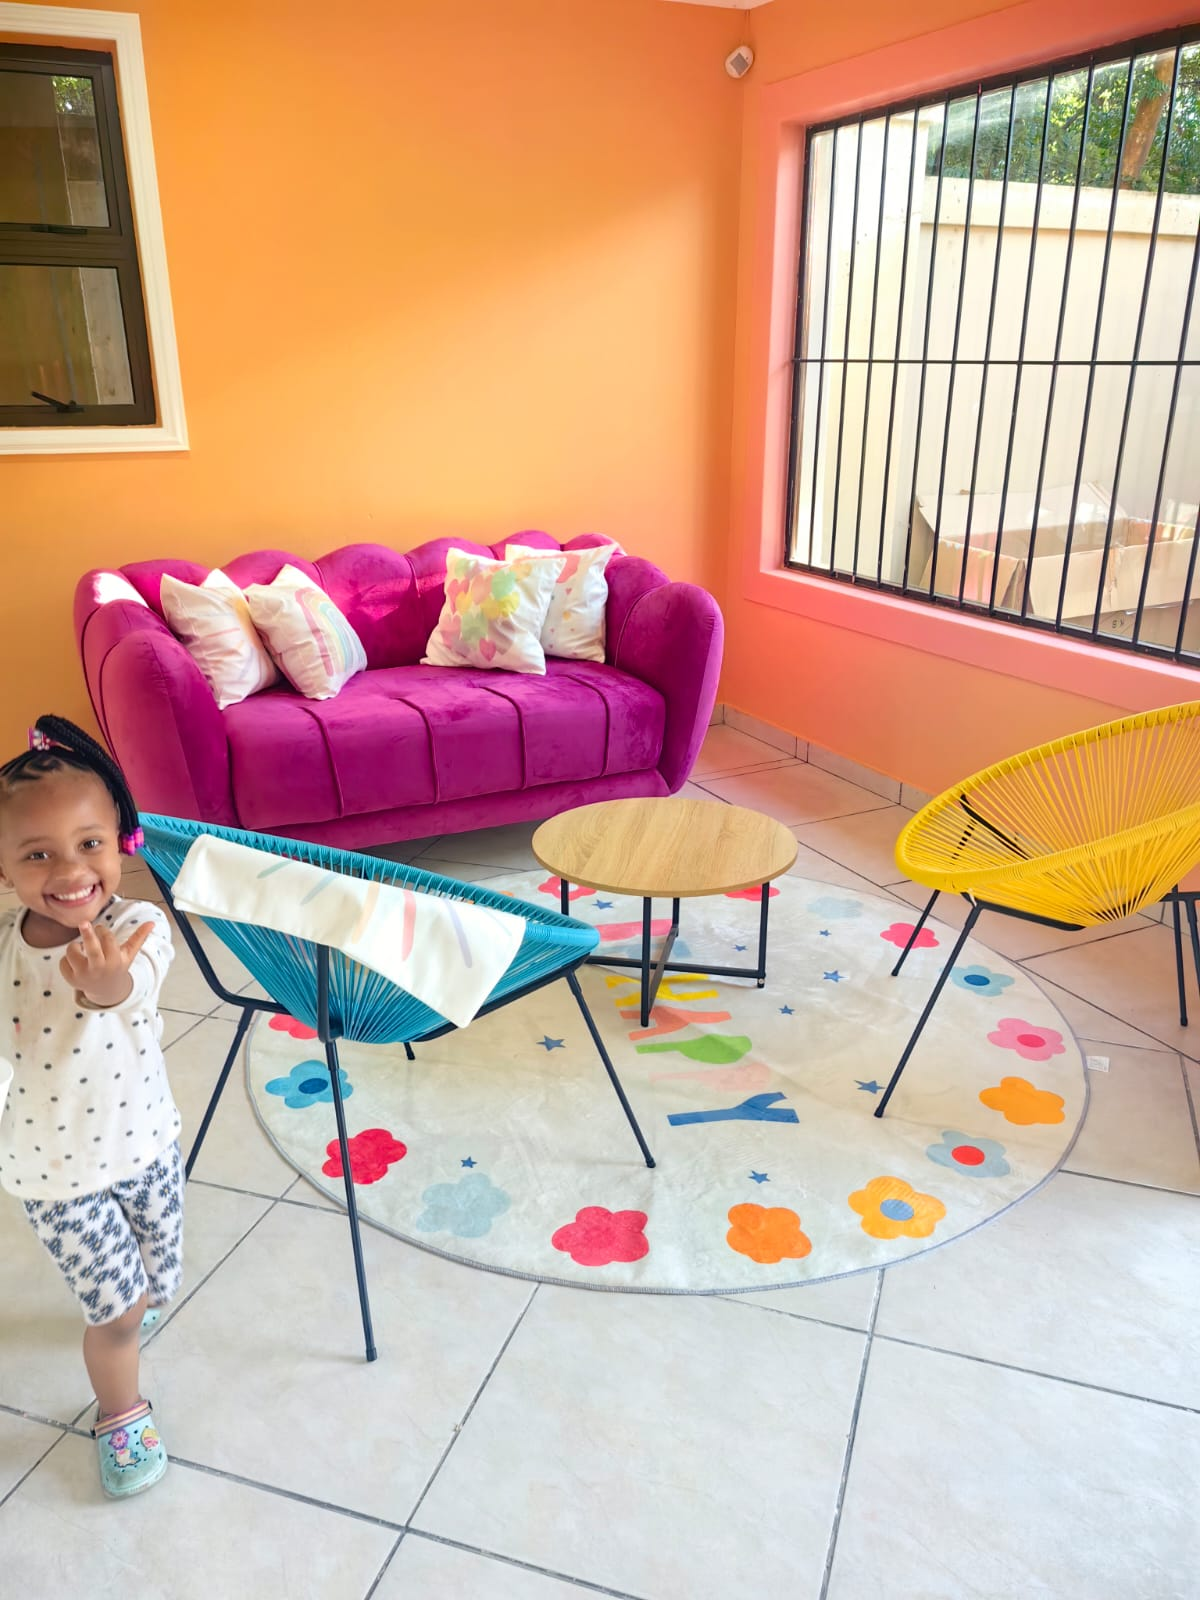
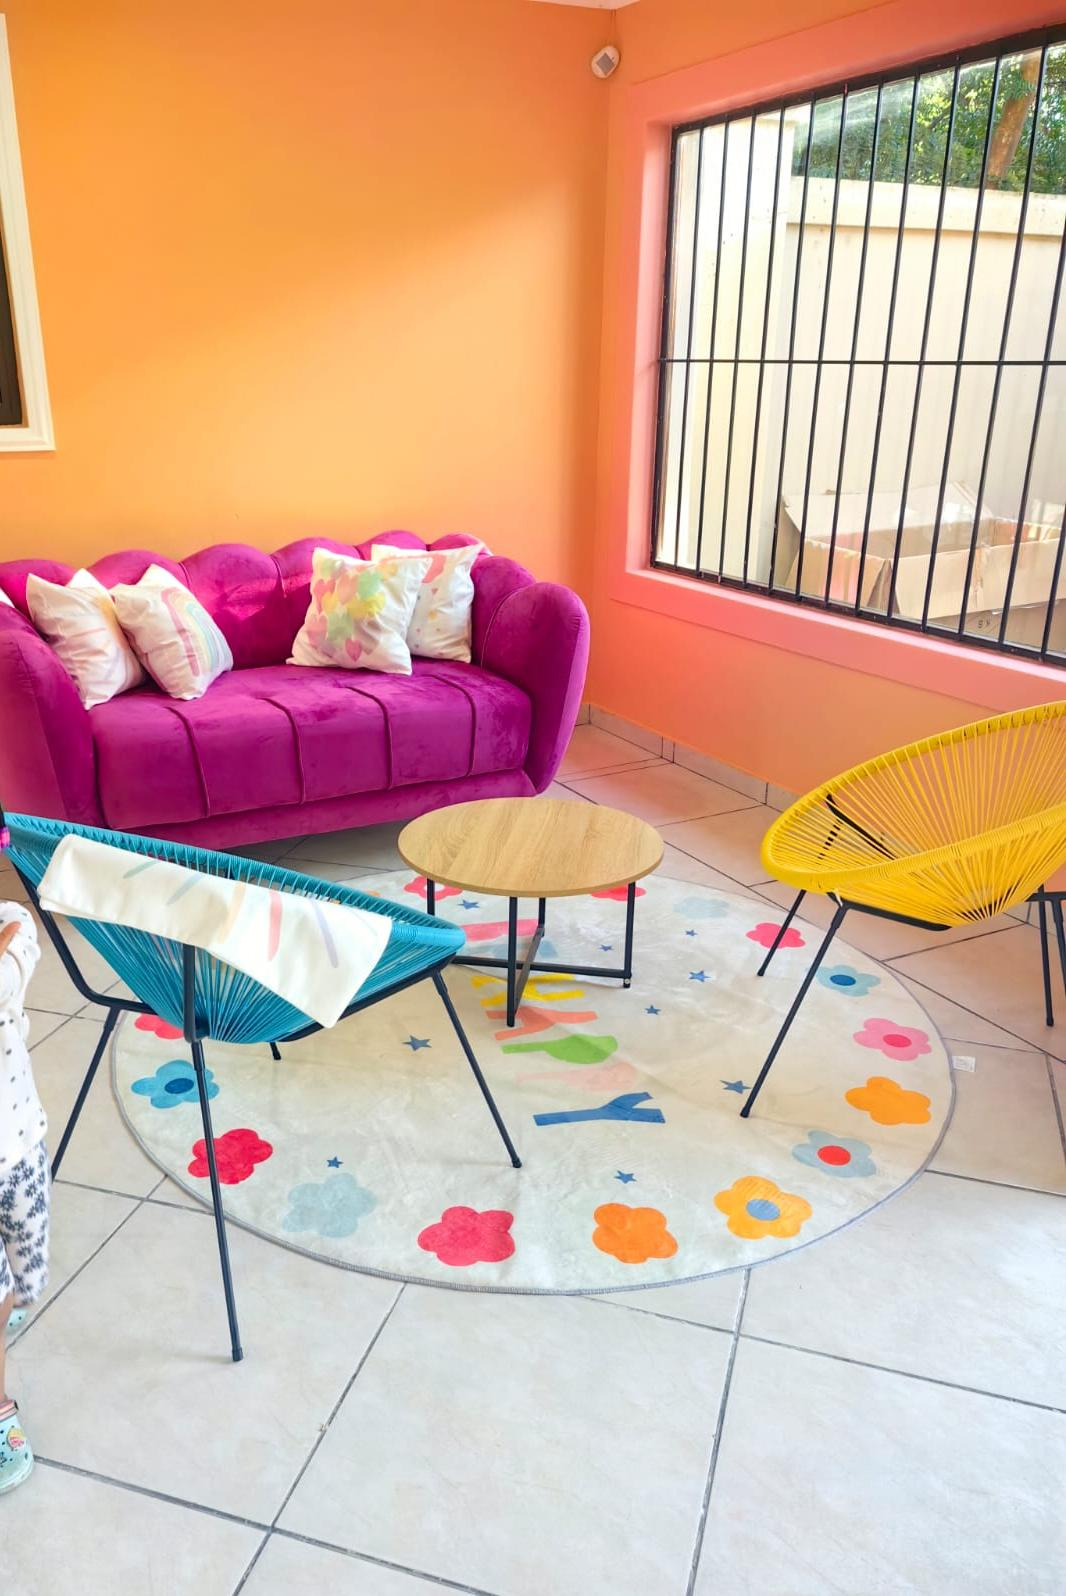
added image

diff --git a/app/page.tsx b/app/page.tsx
@@ -683,7 +683,7 @@ function GallerySection() {
     {src: "/images/gallery-6.jpeg", alt: "Playground", span: "col-span-4 row-span-4" },
     {src: "/images/gallery-7.jpeg", alt: "Playground", span: "col-span-5 row-span-5" },
     {src: "/images/gallery-8.jpeg", alt: "Playground", span: "col-span-6 row-span-6" },
-    {src: "/images/gallery-9.jpeg", alt: "Happy child in Playground", span: "col-span-7 row-span-7" },
+    {src: "/images/gallery-9.jpeg", alt: "Playground", span: "col-span-7 row-span-7" },
     {src: "/images/gallery-10.jpeg", alt: "Happy child in Playground", span: "col-span-8 row-span-8" },
     {src: "/images/gallery-11.jpeg", alt: "Playground", span: "col-span-9 row-span-9" },
   ]
